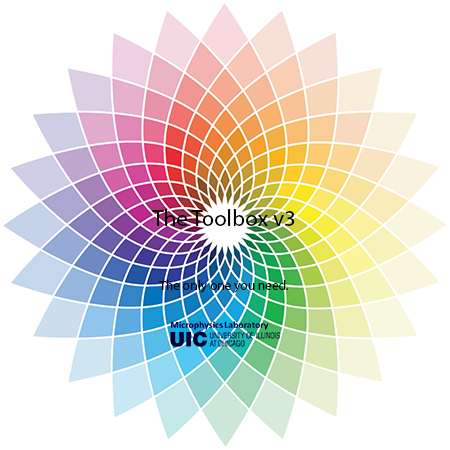
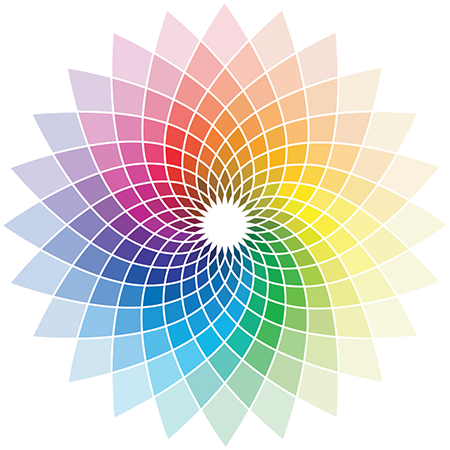
Updated to v 3.07.

Changed region(s): [[0.3733, 0.7156, 0.6222, 0.7778], [0.3422, 0.6222, 0.6533, 0.6533], [0.3422, 0.4667, 0.6533, 0.4978]]

diff --git a/Toolbox_v3.py b/Toolbox_v3.py
@@ -420,8 +420,27 @@ class mainwindow(QMainWindow, Ui_main):
 def main():
     app = QApplication(sys.argv)
     splash_pix = QPixmap(resource_path('bg.png'))
+    logo = QPixmap(resource_path('MPL_UIC.png'))
+    logo = logo.scaled(150, 46, transformMode=Qt.SmoothTransformation)
     splash = QSplashScreen(splash_pix, Qt.WindowStaysOnTopHint)
     splash.setMask(splash_pix.mask())
+
+    vbox = QVBoxLayout()
+    vbox.setContentsMargins(15, 190, 15, 50)
+    font = QFont("Helvetica", 20)
+    lb00 = QLabel("Toolbox v{}".format(__version__[0:4]))
+    lb00.setAlignment(Qt.AlignCenter)
+    lb00.setFont(font)
+    lb01 = QLabel("The only one you need.")
+    lb01.setAlignment(Qt.AlignCenter)
+    lb02 = QLabel()
+    lb02.setAlignment(Qt.AlignCenter)
+    lb02.setPixmap(logo)
+    vbox.addWidget(lb00)
+    vbox.addWidget(lb01)
+    vbox.addWidget(lb02)
+    splash.setLayout(vbox)
+
     splash.show()
     app.processEvents()
 
